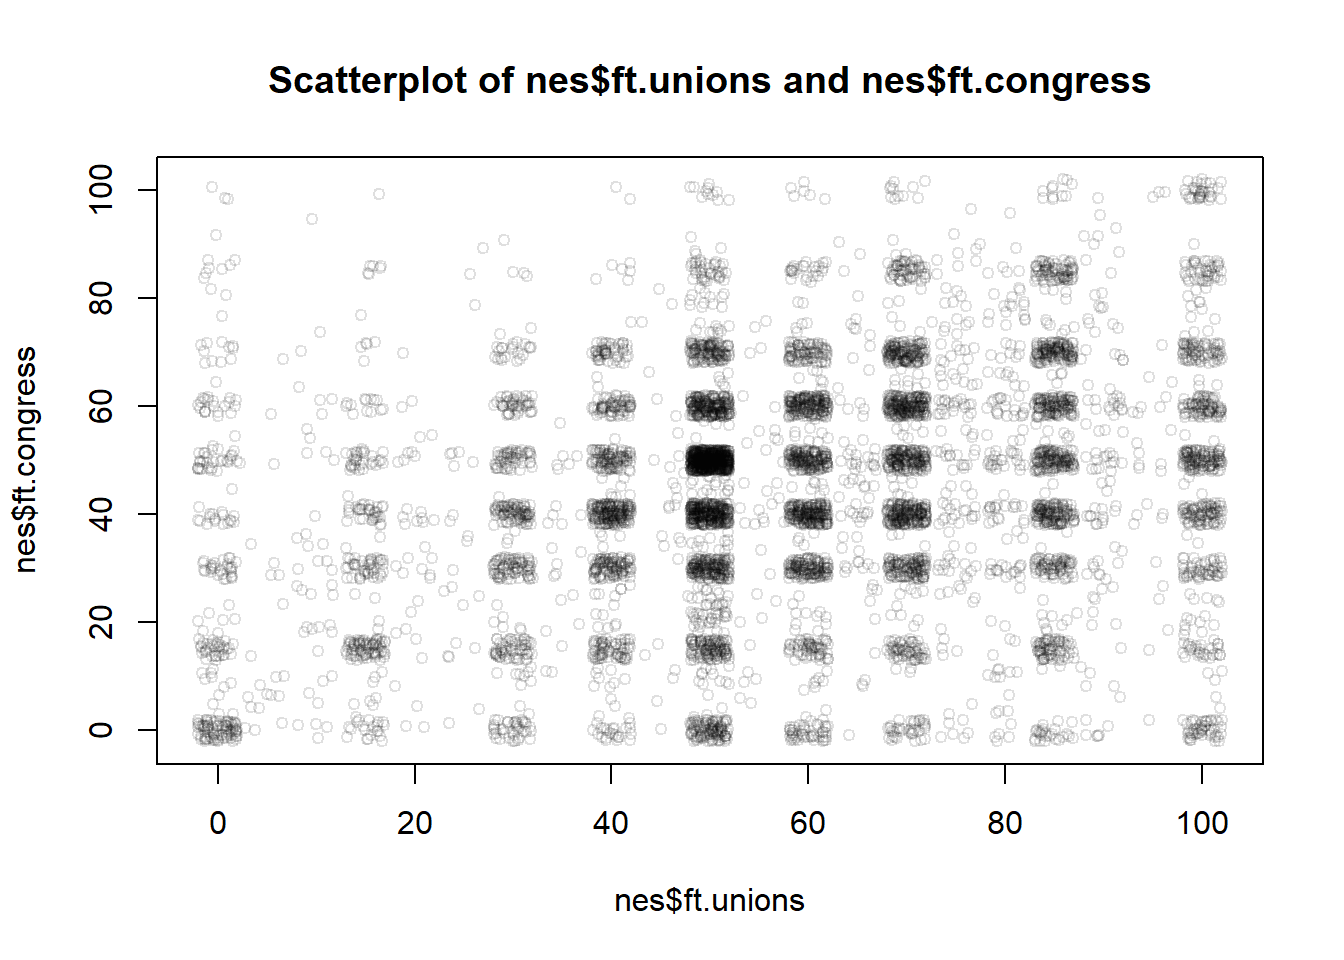
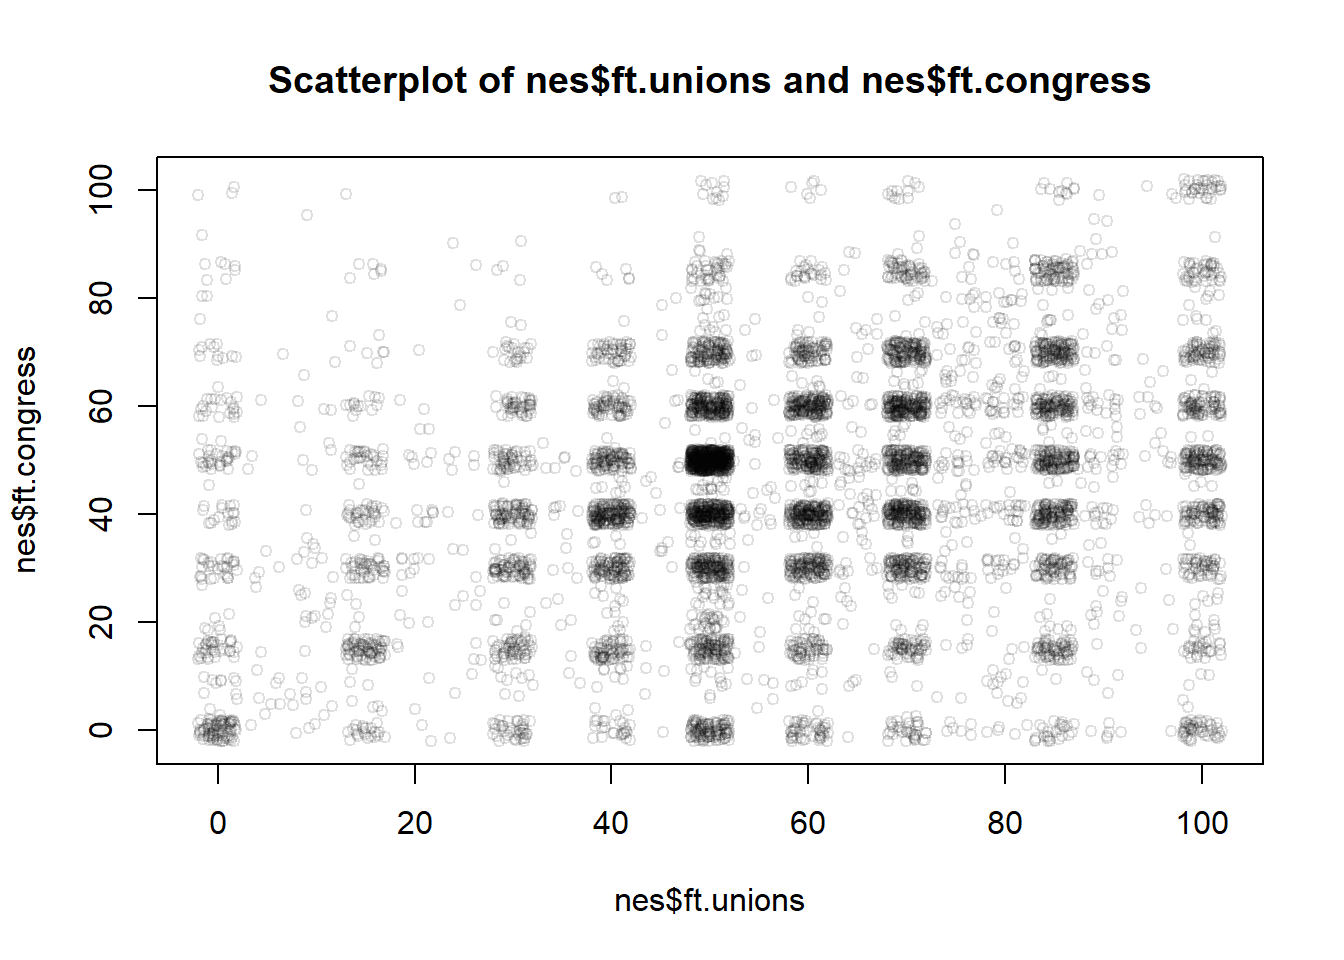
Built site for gh-pages

diff --git a/t-tests_ANOVAs.html b/t-tests_ANOVAs.html
@@ -364,7 +364,7 @@ Table: 95% Confidence Interval of Difference of Proportions
 <p>Is the proportion of Liberal Democracies significantly different from the actual proportion of Liberal Democracies in the world?</p>
 </section>
 <section id="sec-4.-testing-differences-in-means" class="level3">
-<h3 class="anchored" data-anchor-id="sec-4.-testing-differences-in-means">4. Testing Differences in Means</h3>
+<h3 class="anchored" data-anchor-id="sec-4.-testing-differences-in-means"><a href="slides\ttestsAnova.pdf#page=7">4. Testing Differences in Means</a></h3>
 <p>We use what’s called a “t-test” to test when means are significantly different</p>
 <ul>
 <li>DV: Continuous/Interval</li>
@@ -592,7 +592,7 @@ Table: 95% Confidence Interval of Difference of Means
 </div>
 <p>Was mean voter turnout in 2020 significantly different from mean voter turnout in 2016?</p>
 <div class="cell">
-<div class="code-copy-outer-scaffold"><div class="sourceCode cell-code" id="cb13"><pre class="sourceCode r code-with-copy"><code class="sourceCode r"><span id="cb13-1"><a href="#cb13-1" aria-hidden="true" tabindex="-1"></a><span class="fu">load</span>(<span class="st">"Datasets/testScoresData.RData"</span>)</span></code></pre></div><button title="Copy to Clipboard" class="code-copy-button"><i class="bi"></i></button></div>
+<div class="code-copy-outer-scaffold"><div class="sourceCode cell-code" id="cb13"><pre class="sourceCode r code-with-copy"><code class="sourceCode r"><span id="cb13-1"><a href="#cb13-1" aria-hidden="true" tabindex="-1"></a><span class="fu">load</span>(<span class="st">"datasets/testScoresData.RData"</span>)</span></code></pre></div><button title="Copy to Clipboard" class="code-copy-button"><i class="bi"></i></button></div>
 </div>
 <div class="cell">
 <div class="code-copy-outer-scaffold"><div class="sourceCode cell-code" id="cb14"><pre class="sourceCode r code-with-copy"><code class="sourceCode r"><span id="cb14-1"><a href="#cb14-1" aria-hidden="true" tabindex="-1"></a><span class="fu">testmeansC</span>(testScores<span class="sc">$</span>score.pre, testScores<span class="sc">$</span>score.post, <span class="at">paired =</span> T)</span></code></pre></div><button title="Copy to Clipboard" class="code-copy-button"><i class="bi"></i></button></div>

diff --git a/index.html b/index.html
@@ -211,7 +211,7 @@ ul.task-list li input[type="checkbox"] {
 </header>
 
 
-<p>This site provides access to some reminders of how to use R, based on what POLS students learned in the POLS 222 course. It also provides a few primers for additional utilities in R that go beyond the POLS 222 coursework, which will might be helpful for students completing their capstone projects.</p>
+<p>This site provides access to some reminders of how to use R, based on what POLS students learned in the POLS 222 course. It also provides a few primers for additional R utilities that go beyond the POLS 222 coursework, which may be helpful for students completing their capstone projects.</p>
 <section id="tutorials" class="level2">
 <h2 class="anchored" data-anchor-id="tutorials">Tutorials</h2>
 <ul>

diff --git a/ologit_mlogit.html b/ologit_mlogit.html
@@ -345,7 +345,7 @@ Threshold coefficients:
 <p><strong>TASK:</strong> So, let’s try another model, this time to replicate an Ologit we’ve seen in the reading.<a href="#fn1" class="footnote-ref" id="fnref1" role="doc-noteref"><sup>1</sup></a> First we have to import the data from the article:</p>
 </blockquote>
 <div class="cell">
-<div class="code-copy-outer-scaffold"><div class="sourceCode cell-code" id="cb5"><pre class="sourceCode r code-with-copy"><code class="sourceCode r"><span id="cb5-1"><a href="#cb5-1" aria-hidden="true" tabindex="-1"></a><span class="fu">load</span>(<span class="st">"Datasets/spain.RData"</span>)</span></code></pre></div><button title="Copy to Clipboard" class="code-copy-button"><i class="bi"></i></button></div>
+<div class="code-copy-outer-scaffold"><div class="sourceCode cell-code" id="cb5"><pre class="sourceCode r code-with-copy"><code class="sourceCode r"><span id="cb5-1"><a href="#cb5-1" aria-hidden="true" tabindex="-1"></a><span class="fu">load</span>(<span class="st">"datasets/spain.RData"</span>)</span></code></pre></div><button title="Copy to Clipboard" class="code-copy-button"><i class="bi"></i></button></div>
 </div>
 <div class="cell">
 <div class="code-copy-outer-scaffold"><div class="sourceCode cell-code" id="cb6"><pre class="sourceCode r code-with-copy"><code class="sourceCode r"><span id="cb6-1"><a href="#cb6-1" aria-hidden="true" tabindex="-1"></a>ologit_spain <span class="ot">&lt;-</span> <span class="fu">clm</span>(spain<span class="sc">$</span>happy <span class="sc">~</span> spain<span class="sc">$</span>agea <span class="sc">+</span> <span class="fu">I</span>(spain<span class="sc">$</span>agea<span class="sc">^</span><span class="dv">2</span>)  <span class="sc">+</span> spain<span class="sc">$</span>gndr <span class="sc">+</span> spain<span class="sc">$</span>health <span class="sc">+</span> spain<span class="sc">$</span>maritala <span class="sc">+</span> spain<span class="sc">$</span>chldhm <span class="sc">+</span> spain<span class="sc">$</span>education <span class="sc">+</span> spain<span class="sc">$</span>region)</span>